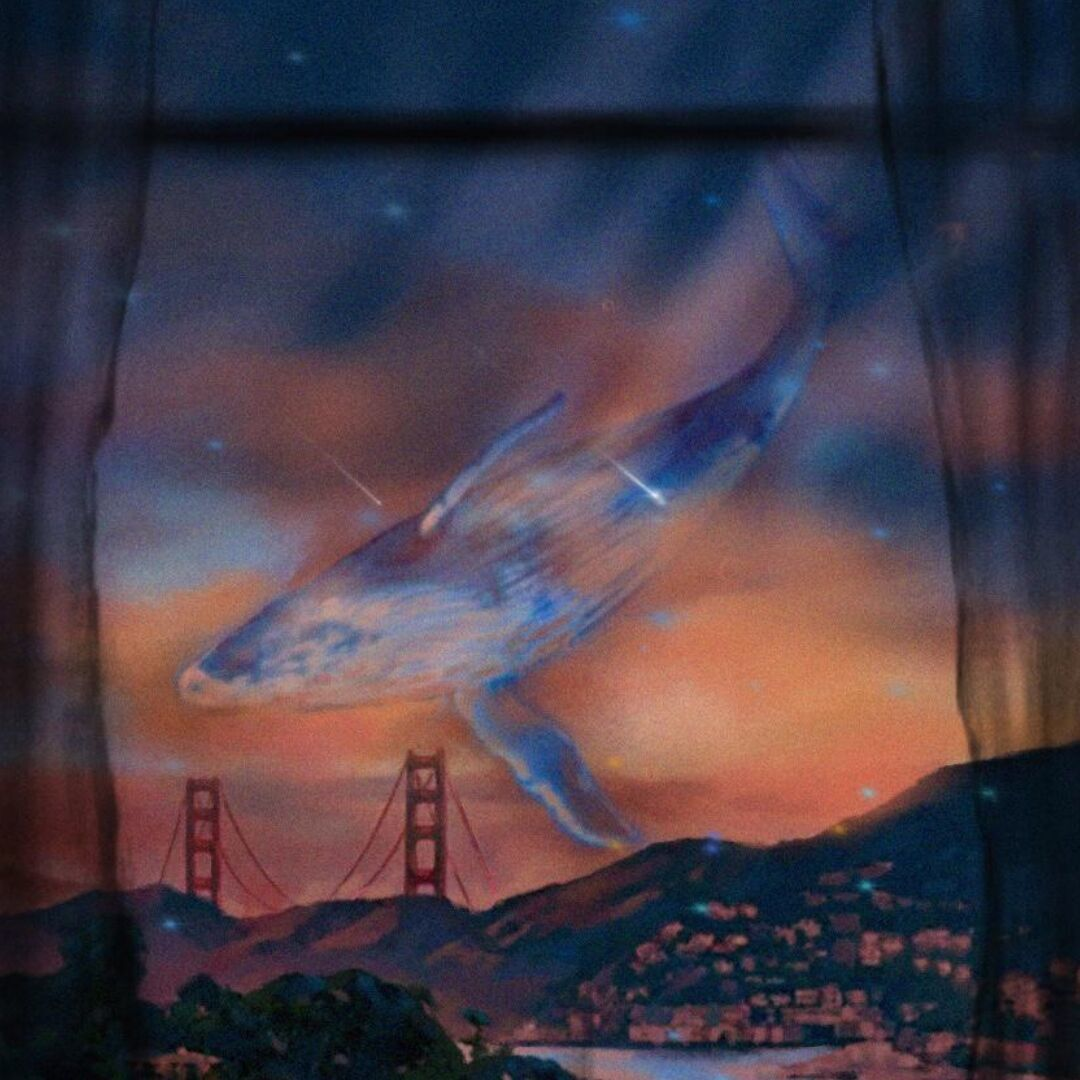
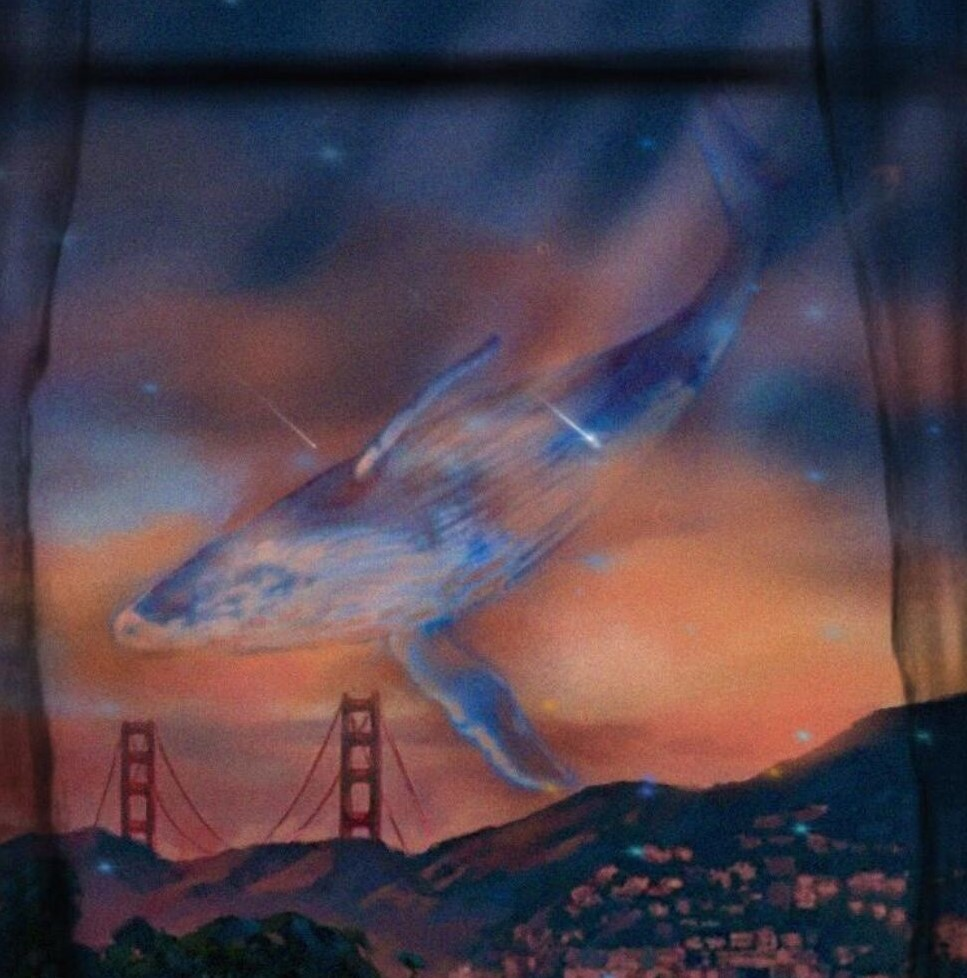
Complete Board

diff --git a/web/home.html b/web/home.html
@@ -13,7 +13,7 @@
         <div class="sidebar">
 <!--            <div class="sidebar_content">-->
             <br><br>
-            <img src="img/whalefall.jpg" class="HeadImage">
+            <img src="img/home.jpg" class="HeadImage">
             <br>
             <h1>WhaleFall</h1>
             <p>Don't cry, I am just a fish.</p>
@@ -93,7 +93,7 @@
     </div>
 
     <div class="content">
-        <!-- <div class="article" th:if="${content} == 1" th:each="article : ${articles}">
+        <div class="article" th:if="${content} == 1" th:each="article : ${articles}">
             <h1 th:text="${article.getTitle()}"></h1>
             <p th:text="${article.getDescription()}"></p>
             <p class="time" th:text="${article.getArticleTime()}"></p>
@@ -104,49 +104,27 @@
             <div th:each="article : ${subList}">
                 <h4 th:text="${article.getTitle()}"></h4>
             </div>
-        </div> -->
-
-        <div class="board">
-            <div class="message">
-                <div><img class="headimage" src="img/123.jpg"></div>
-                <div class="divh1"><h1>123</h1></div>
-                <div class="divp">
-                    <p>真是的说起现在的年轻人一有什么事就来凑热闹大白天就到这种地方来消磨时间工作不用干啦做律师的有这么空闲吗这样的话大婶也去当律师算啦大婶儿我年轻时从来没有像你们这样浪费过时间女孩子年纪轻轻的却打扮成这样啊这可怎么办日本的未来会成个什么样子真是的我的儿子也是整整3年都不来个电话</p>
-                </div>
-            </div>
-
-            <div class="message">
-                <div><img class="headimage" src="img/123.jpg"></div>
-                <div class="divh1"><h1>123</h1></div>
-                <div class="divp">
-                    <p>真是的说起现在的年轻人一有什么事就来凑热闹大白天就到这种地方来消磨时间工作不用干啦做律师的有这么空闲吗这样的话大婶也去当律师算啦大婶儿我年轻时从来没有像你们这样浪费过时间女孩子年纪轻轻的却打扮成这样啊这可怎么办日本的未来会成个什么样子真是的我的儿子也是整整3年都不来个电话</p>
-                </div>
-            </div>
-
-            <div class="message">
-                <div><img class="headimage" src="img/123.jpg"></div>
-                <div class="divh1"><h1>123</h1></div>
-                <div class="divp">
-                    <p>真是的说起现在的年轻人一有什么事就来凑热闹大白天就到这种地方来消磨时间工作不用干啦做律师的有这么空闲吗这样的话大婶也去当律师算啦大婶儿我年轻时从来没有像你们这样浪费过时间女孩子年纪轻轻的却打扮成这样啊这可怎么办日本的未来会成个什么样子真是的我的儿子也是整整3年都不来个电话</p>
-                </div>
-            </div>
-
-            <div class="message">
-                <div><img class="headimage" src="img/123.jpg"></div>
-                <div class="divh1"><h1>123</h1></div>
-                <div class="divp">
-                    <p>真是的说起现在的年轻人一有什么事就来凑热闹大白天就到这种地方来消磨时间工作不用干啦做律师的有这么空闲吗这样的话大婶也去当律师算啦大婶儿我年轻时从来没有像你们这样浪费过时间女孩子年纪轻轻的却打扮成这样啊这可怎么办日本的未来会成个什么样子真是的我的儿子也是整整3年都不来个电话</p>
-                </div>
-            </div>
-
-            <!-- <div class="input-box"> -->
-                <form class="input-box" method="post" action="sendMsg">
-                    <textarea rows="3" type="text" id="msg-input" name="msg"></textarea>
-                    <input type="submit" value="留言">
-                </form>
-            <!-- </div> -->
-            <div class="hidediv"><h> </h></div>
         </div>
+
+
+        <div class="message" th:if="${board} == 1" th:each="msg : ${msgs_all}">
+            <div><img class="headimage" th:src="${msg.getImgPath()}"></div>
+            <div class="divh1"><h1 th:text="${msg.getUserName()}"></h1></div>
+            <div class="divp">
+                <p th:text="${msg.getMsg()}"></p>
+            </div>
+        </div>
+
+<!--        <div th:if="${board} == 1 && ${authority} == 3">-->
+
+        <div th:if="${board == 1 && (authority == 3 || authority == 2)}">
+            <div class="hidediv"><h1> </h1></div>
+            <form class="input-box" method="post" action="sendMsg">
+                <textarea rows="3" type="text" id="msg-input" name="msg"></textarea>
+                <input type="submit" value="留言">
+            </form>
+        </div>
+
     </div>
 </body>
 </html>

diff --git a/web/css/home.css b/web/css/home.css
@@ -306,7 +306,7 @@ body, .container-right, .container-left, .content, .article, .about-box, .inf, .
 
 .board {
     background-color: transparent;
-    width: 66%;
+    width: 100%;
     flex-wrap: wrap;
     overflow: hidden;
 
@@ -314,12 +314,16 @@ body, .container-right, .container-left, .content, .article, .about-box, .inf, .
     float: none;
 }
 
-.board .message {
+.message {
     display: inline-block;
+    flex-wrap: wrap;
     margin-bottom: 20px;
+    width: 66%;
+    background-color: transparent;
 }
 
 .message .divh1 {
+    width: 45%;
     margin-left: 1.8rem;
     color: #c5c7c7;
     display: flex;
@@ -335,10 +339,13 @@ body, .container-right, .container-left, .content, .article, .about-box, .inf, .
 }
 
 .message .divp {
+    width: 90%;
     margin-top: 0;
     display: flex;
     float: left;
     margin-left: 5.4rem;
+    text-align: left;
+    padding-right: 5.4rem;
 }
 
 .divp p {
@@ -360,35 +367,38 @@ body, .container-right, .container-left, .content, .article, .about-box, .inf, .
 }
 
 
-.board .input-box {
-    display: flex;
-    float: inline-end;
-    overflow: visible;
+.input-box {
     width: 46%;
     height: 10%;
     position: fixed;
     bottom: 0;
+    left: 0;
+    margin-left: 28%;
     margin-bottom: 40px;
     border: 1px solid #a4a4a4;
     border-radius: 10px;
+
+    display: flex;
+    flex-wrap: nowrap;
 
     background-color: rgb(28, 28, 28);
 }
 
 .input-box textarea[type="text"] {
-    margin: 10px 10px;
-    margin-top: 10px;
-    margin-bottom: 10px;
     background-color: rgb(28, 28, 28);
     color: #c5c7c7;
-
+    width: 95%;
     font-size: 1rem;
     font-family: 'Gill Sans', 'Gill Sans MT', Calibri, 'Trebuchet MS', sans-serif;
 
     border: 0px solid transparent;
     overflow-y: auto;
-    width: 100%;
     cursor: pointer;
+
+    margin-left: 10px;
+    margin-right: 10px;
+    margin-bottom: 8px;
+    margin-top: 8px;
 }
 
 .input-box textarea[type="text"]:focus {
@@ -409,11 +419,10 @@ body, .container-right, .container-left, .content, .article, .about-box, .inf, .
     background-color: #333;
 }
 
-.board .hidediv {
-    display: flex;
-    float: inline-end;
-    overflow: visible;
-    width: 46%;
+.hidediv {
+    width: 50%;
+    left: 0;
+    margin-left: 26%;
     position: fixed;
     bottom: 0;
     padding-bottom: 40px;

diff --git a/src/com/blog/servlets/SendMsg.java b/src/com/blog/servlets/SendMsg.java
@@ -3,6 +3,7 @@ package com.blog.servlets;
 import com.blog.bean.Msg;
 import com.blog.bean.Nts;
 import com.blog.bean.PreInviter;
+import com.blog.bean.User;
 import com.blog.dao.MsgDAO;
 import com.blog.dao.NtsDAO;
 import com.blog.dao.PreInviterDAO;
@@ -12,7 +13,9 @@ import javax.servlet.ServletException;
 import javax.servlet.annotation.WebServlet;
 import javax.servlet.http.HttpServletRequest;
 import javax.servlet.http.HttpServletResponse;
+import javax.servlet.http.HttpSession;
 import java.io.IOException;
+import java.io.PrintWriter;
 import java.util.List;
 
 @WebServlet("/sendMsg")
@@ -23,29 +26,44 @@ public class SendMsg extends ViewBaseServlet {
         response.setCharacterEncoding("utf-8");
         response.setContentType("text/html;charset=utf-8");
         String msg = request.getParameter("msg");
-        String userauthorityStr = request.getParameter("authority");
-        int userauthority = Integer.parseInt(userauthorityStr);
+
+        HttpSession session = request.getSession();
+        User user = (User) session.getAttribute("user");
+        int userId = user.getId();
+
+//        String userauthorityStr = request.getParameter("authority");
+//        int userauthority = Integer.parseInt(userauthorityStr);
         Msg m5g = new Msg();
         m5g.setMsg(msg);
+        m5g.setUserId(userId);
         MsgDAO msgDAO = new MsgDAO();
         boolean flag = msgDAO.send(m5g);
-        if(flag){
-            List<Msg> msgs = msgDAO.selectall();
-            NtsDAO ntsDAO = new NtsDAO();
-            List<Nts> ntss = ntsDAO.selectall();
-            PreInviterDAO preInviterDAO = new PreInviterDAO();
-            List<PreInviter> preInviters = preInviterDAO.selectall();
-
-            request.setAttribute("msgs", msgs);
-            request.setAttribute("ntss", ntss);
-            request.setAttribute("preinviters", preInviters);
-            System.out.println("Send successfully!");
-            request.setAttribute("authority", userauthority);
-            super.processTemplate("home",request,response);
-        } else{
-            request.setAttribute("authority", userauthority);
-            super.processTemplate("home",request,response);
+        if (!flag) {
+            response.setContentType("text/html;charset=utf-8");
+            PrintWriter out = response.getWriter();
+            out.println("<script type=\"text/javascript\">");
+            out.println("alert('留言失败')");
+            out.println("</script>");
         }
+
+        response.sendRedirect("board");
+//        if(flag){
+//            List<Msg> msgs = msgDAO.selectall();
+//            NtsDAO ntsDAO = new NtsDAO();
+//            List<Nts> ntss = ntsDAO.selectall();
+//            PreInviterDAO preInviterDAO = new PreInviterDAO();
+//            List<PreInviter> preInviters = preInviterDAO.selectall();
+//
+//            request.setAttribute("msgs", msgs);
+//            request.setAttribute("ntss", ntss);
+//            request.setAttribute("preinviters", preInviters);
+//            System.out.println("Send successfully!");
+//            request.setAttribute("authority", userauthority);
+//            super.processTemplate("home",request,response);
+//        } else{
+//            request.setAttribute("authority", userauthority);
+//            super.processTemplate("home",request,response);
+//        }
     }
     @Override
     protected void doGet(HttpServletRequest request, HttpServletResponse response) throws ServletException, IOException {

diff --git a/src/com/blog/servlets/Board.java b/src/com/blog/servlets/Board.java
@@ -1,0 +1,52 @@
+package com.blog.servlets;
+
+import com.blog.bean.Msg;
+import com.blog.bean.PreInviter;
+import com.blog.bean.User;
+import com.blog.dao.MsgDAO;
+import com.blog.dao.NtsDAO;
+import com.blog.dao.PreInviterDAO;
+import com.blog.myssm.myspringmvc.ViewBaseServlet;
+
+import javax.servlet.ServletException;
+import javax.servlet.annotation.WebServlet;
+import javax.servlet.http.HttpServletRequest;
+import javax.servlet.http.HttpServletResponse;
+import javax.servlet.http.HttpSession;
+import java.io.IOException;
+import java.util.List;
+
+@WebServlet("/board")
+public class Board extends ViewBaseServlet {
+    @Override
+    protected void doGet(HttpServletRequest request, HttpServletResponse response) throws ServletException, IOException {
+        request.setCharacterEncoding("utf-8");
+        response.setCharacterEncoding("utf-8");
+        response.setContentType("text/html;charset=utf-8");
+        MsgDAO msgDAO = new MsgDAO();
+        List<Msg> msgs = msgDAO.latest5Msg();
+        NtsDAO ntsDAO = new NtsDAO();
+        String nts = ntsDAO.latestNts();
+        PreInviterDAO preInviterDAO = new PreInviterDAO();
+        List<PreInviter> preInviters = preInviterDAO.selectall();
+
+        request.setAttribute("msgs", msgs);
+        request.setAttribute("nts", nts);
+        request.setAttribute("preinviters", preInviters);
+
+        HttpSession session = request.getSession();
+        User u = (User) session.getAttribute("user");
+        if (u == null) {
+            request.setAttribute("authority", 0);
+        } else {
+            request.setAttribute("authority", u.getAuthority());
+            System.out.println("User Authority: " + u.getAuthority());
+        }
+
+        List<Msg> msgs_all = msgDAO.selectall();
+        request.setAttribute("msgs_all", msgs_all);
+        request.setAttribute("board", 1);
+
+        super.processTemplate("home", request, response);
+    }
+}

diff --git a/src/com/blog/dao/MsgDAO.java b/src/com/blog/dao/MsgDAO.java
@@ -18,7 +18,7 @@ public class MsgDAO {
         try {
             con = JDBCUtils.getConnection();
             sta = con.createStatement();
-            String sql = "select * from msgs;";
+            String sql = "select * from msgs order by id desc;";
             PreparedStatement pstmt = con.prepareStatement(sql);
             res = pstmt.executeQuery();
             while (res.next()) {

diff --git a/src/com/blog/bean/Msg.java b/src/com/blog/bean/Msg.java
@@ -26,4 +26,5 @@ public class Msg {
 
     public User getTheUser() { return new UserDAO().getUserById(this.userId); }
     public String getUserName() { return getTheUser().getName(); }
+    public String getImgPath() { return "img/" + getUserName() + ".jpg"; }
 }
